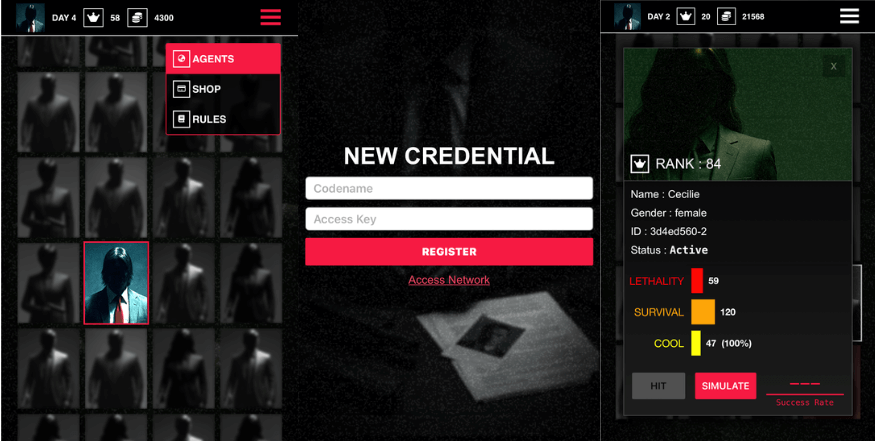
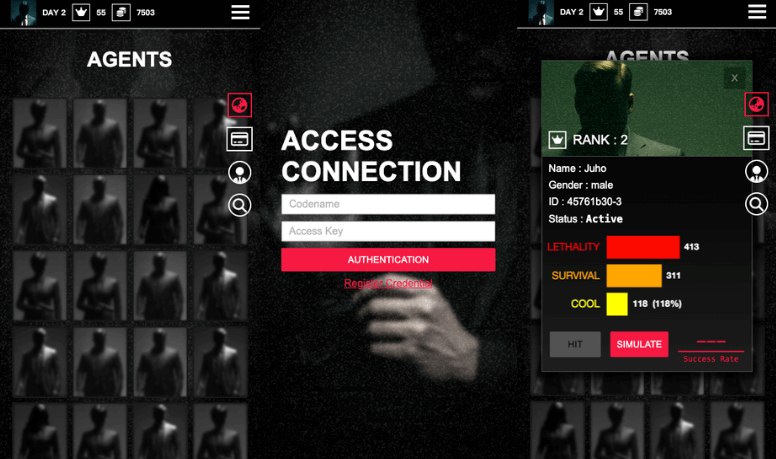
add skeleton to card image

diff --git a/css/components/targetCard.css b/css/components/targetCard.css
@@ -193,3 +193,24 @@
     transform: scale(var(--player-zoom-in-scale)) translate(0px, 0px);
   }
 }
+
+/* skeleton imge */
+.skeleton-img {
+  background: linear-gradient(90deg, #222 25%, #333 50%, #222 75%);
+  background-size: 200% 100%;
+  animation: skeleton-loading 3s infinite;
+  display: block;
+}
+
+.skeleton-img:not([src]) {
+  visibility: hidden;
+}
+
+@keyframes skeleton-loading {
+  0% {
+    background-position: 200% 0;
+  }
+  100% {
+    background-position: -200% 0;
+  }
+}

diff --git a/js/components/targetCard.js b/js/components/targetCard.js
@@ -26,6 +26,12 @@ export function targetCard(target, isPlayer = false) {
   image.loading = 'lazy';
   innerDiv.appendChild(image);
 
+  // Add sekeleton img
+  image.classList.add('skeleton-img')
+  image.onload = () => {
+    image.classList.remove('skeleton-img')
+  }
+
   // Rank
   const Rankspan = document.createElement('span');
   Rankspan.innerText = target.rank || "?"
